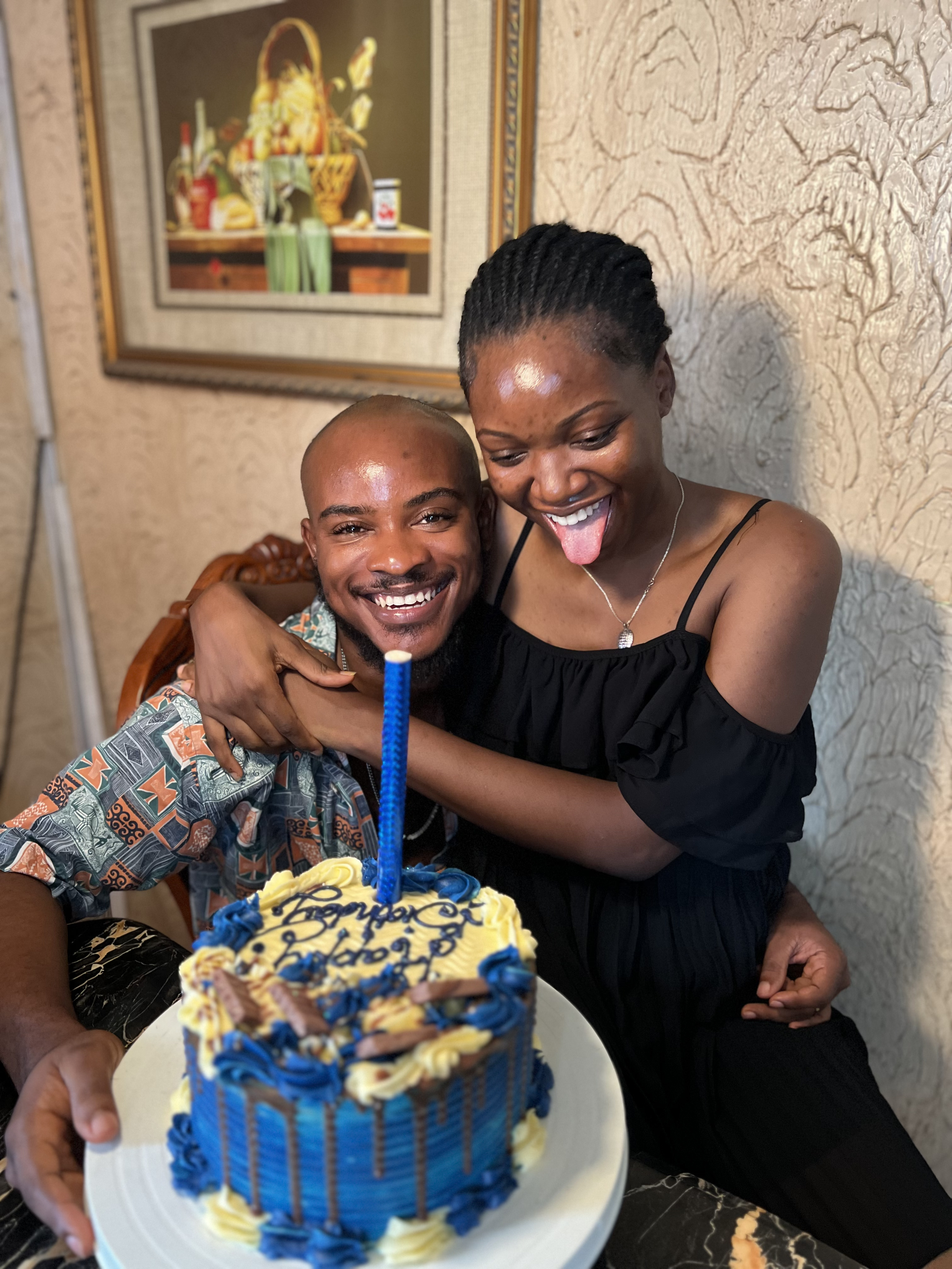
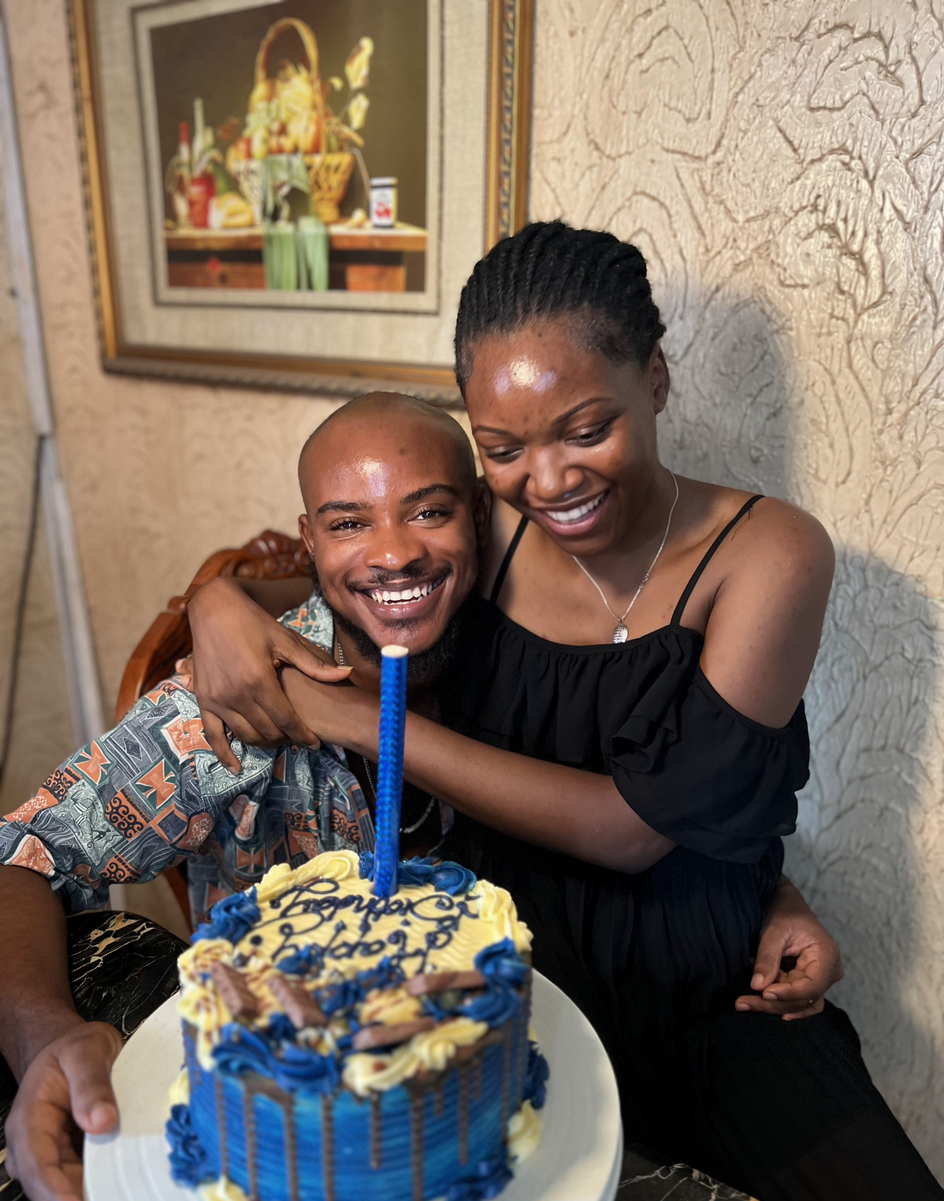
update gallery

diff --git a/index.html b/index.html
@@ -91,6 +91,10 @@
         <h2 data-aos="fade-up">Our Moments</h2>
         <div class="photo-gallery" data-aos="fade-up" data-aos-delay="200">
           <img
+            src="./images/_OLA7578.jpg"
+            alt="Photo of Ovo and Chee-Zaram 1"
+          />
+          <img
             src="./images/IMG_4580.jpg"
             alt="Photo of Ovo and Chee-Zaram 1"
           />
